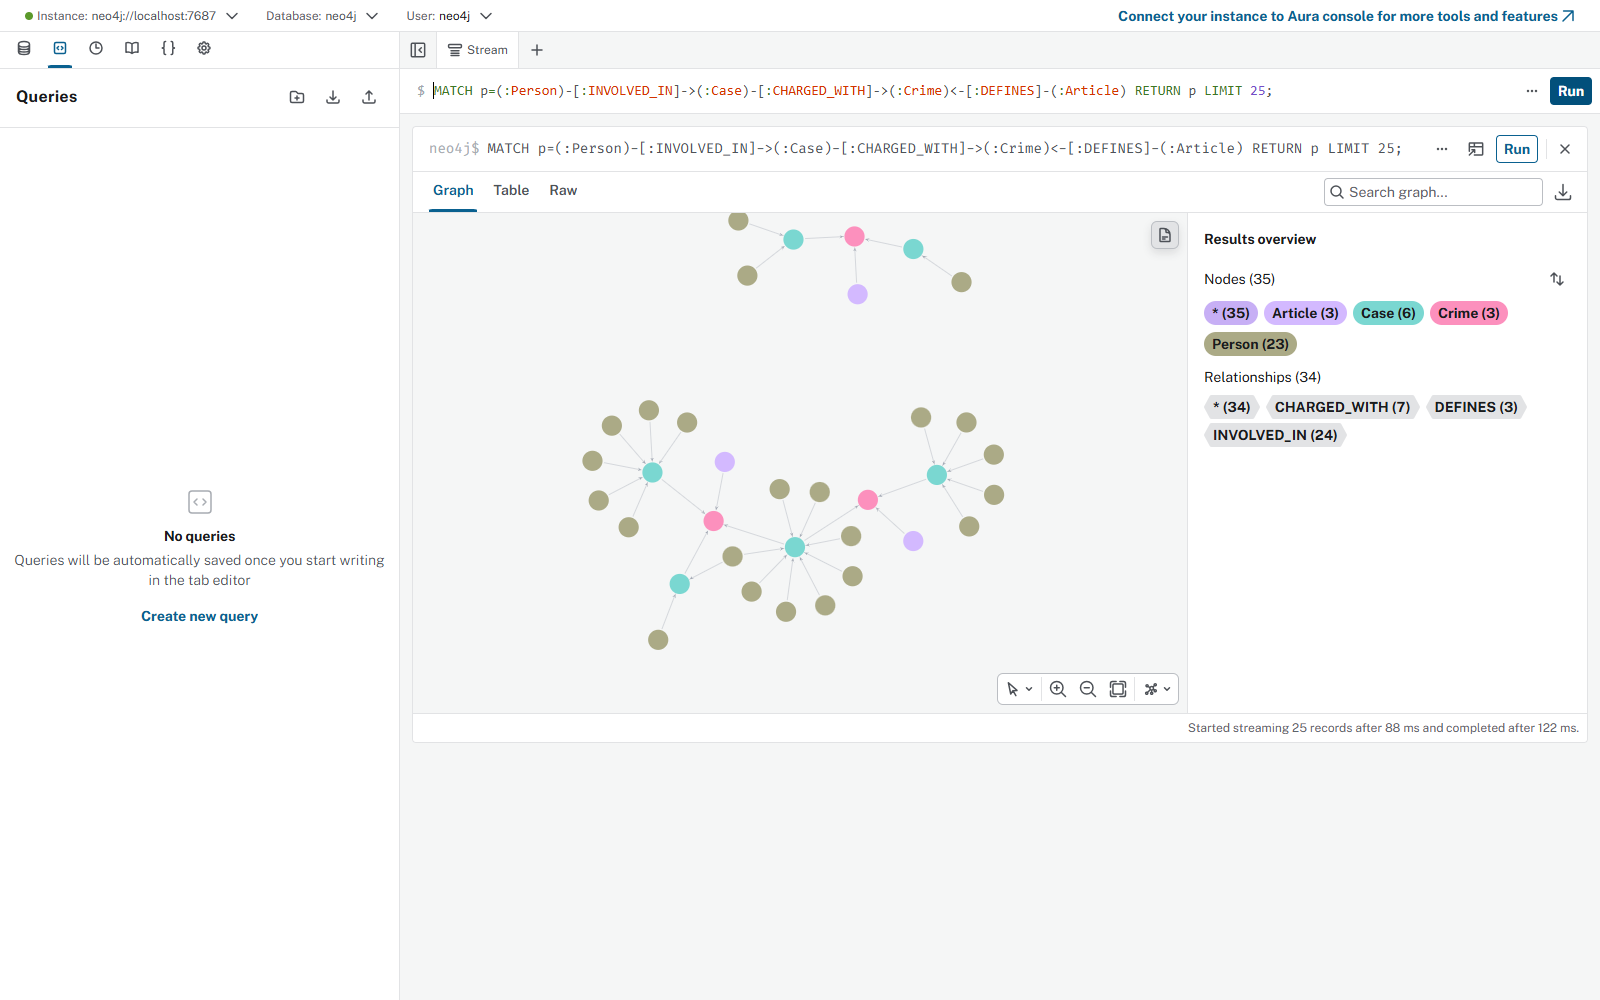
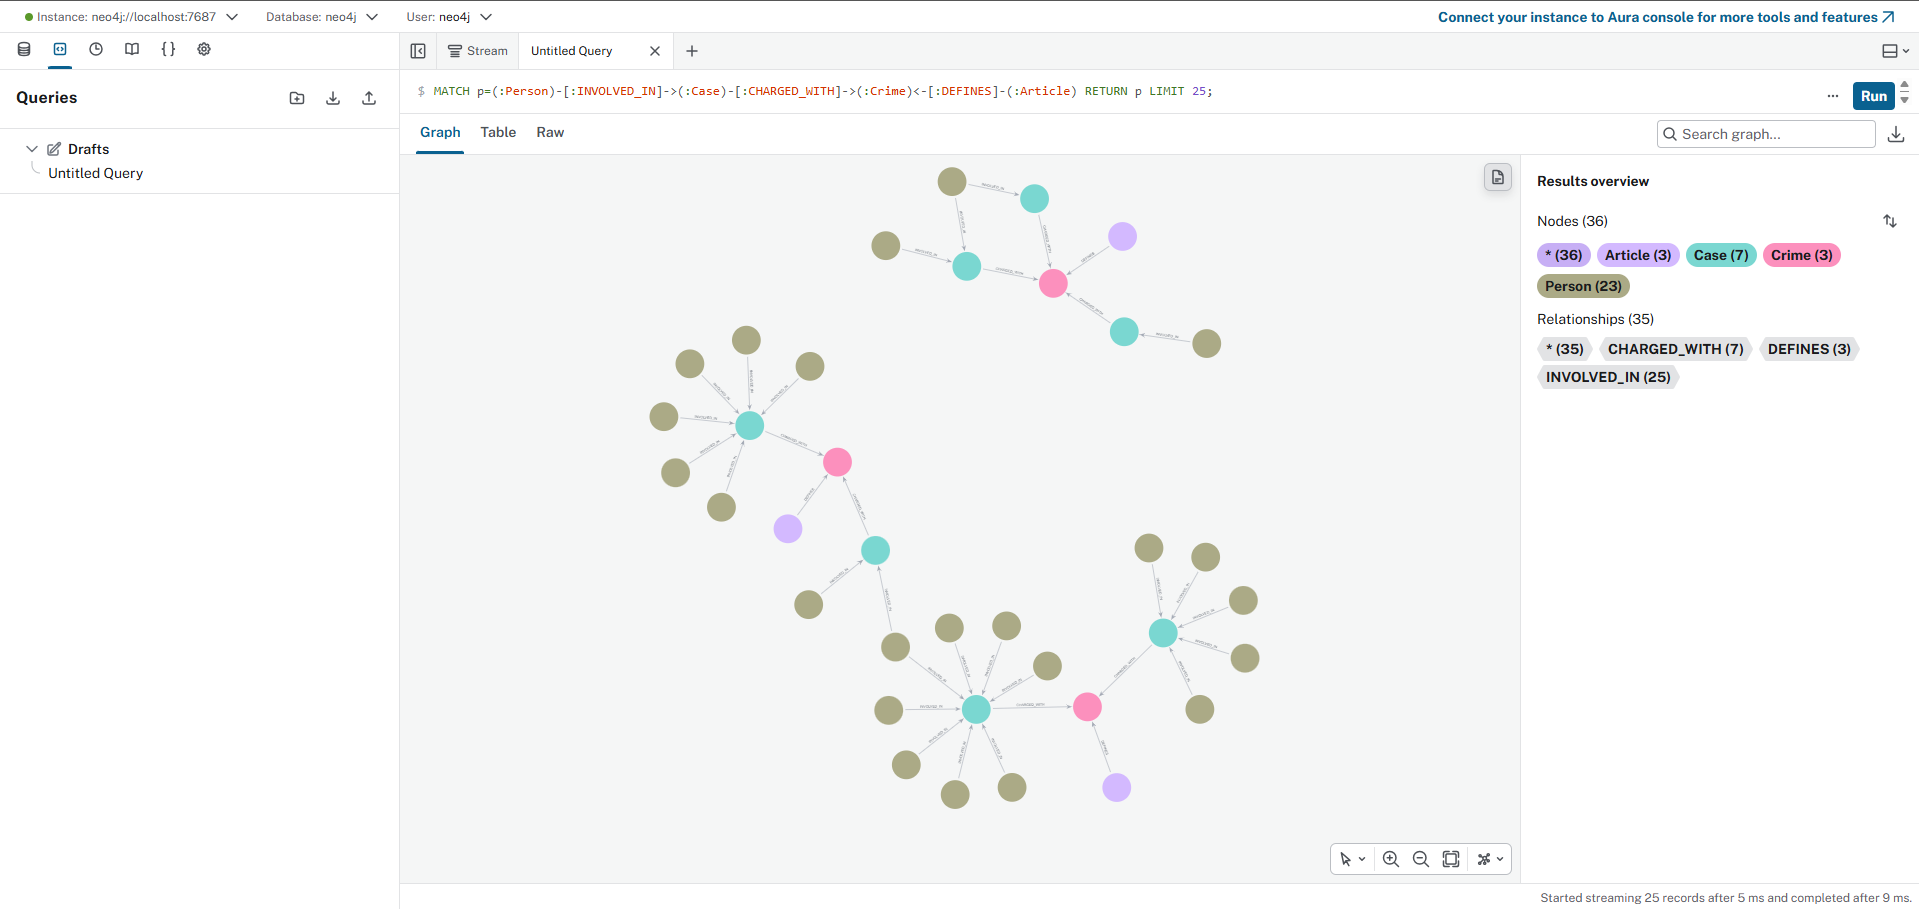
Refresh benchmark results and Neo4j evidence

diff --git a/report/REPORT_KG.md b/report/REPORT_KG.md
@@ -2,29 +2,29 @@
 
 **Họ tên:** Nguyễn Thành Duy  **MSSV:** 2A202602804  **Ngày:** 05/10/2026
 
-Số liệu dưới đây lấy từ `ket_qua_benchmark_kg.txt` sau khi chạy `python bench_kg.py --judge` trên mã cuối. Chat: `openai:gpt-4o-mini`; embedding: `openai:text-embedding-3-small`; `top_k=3`, `chunk_size=800`, 176 chunk; graph: 206 node và 384 cạnh. Judge dùng lời gọi LLM riêng, không tính vào chi phí mỗi pipeline.
+Số liệu dưới đây lấy từ `ket_qua_benchmark_kg.txt` sau khi chạy `python bench_kg.py --judge` trên mã cuối. Chat: `openai:gpt-4o-mini`; embedding: `openai:text-embedding-3-small`; `top_k=3`, `chunk_size=800`, 176 chunk; graph: 206 node và 385 cạnh. Judge dùng lời gọi LLM riêng, không tính vào chi phí mỗi pipeline.
 
 ## 1. Chi phí
 
 ```text
 == Indexing (one-off)
 pipeline  calls    in_tok  out_tok       USD  seconds
-flat        176     56072        0   0.00112     49.4
-graph       196     91958     4864   0.00942    116.3
+flat        176     56072        0   0.00112    136.9
+graph       196     91958     4909   0.00945    213.0
 
 == Querying (mean per question)
 pipeline  recall  judge   in_tok  out_tok       USD  seconds
-flat        0.43   1.00      694       47   0.00013     1.54
-graph       0.94   1.67     2704       88   0.00045     1.86
+flat        0.43   1.00      694       47   0.00013     2.50
+graph       0.94   1.83     2740       95   0.00046     3.24
 ```
 
 | Chỉ số | Flat | Graph | Graph / Flat |
 | --- | ---: | ---: | ---: |
-| Indexing USD | 0,00112 | 0,00942 | 8,41× |
-| Indexing giây | 49,4 | 116,3 | 2,35× |
-| Mỗi câu: USD | 0,00013 | 0,00045 | 3,46× |
-| Mỗi câu: giây | 1,54 | 1,86 | 1,21× |
-| Mỗi câu: in_tok | 694 | 2704 | 3,90× |
+| Indexing USD | 0,00112 | 0,00945 | 8,44× |
+| Indexing giây | 136,9 | 213,0 | 1,56× |
+| Mỗi câu: USD | 0,00013 | 0,00046 | 3,54× |
+| Mỗi câu: giây | 2,50 | 3,24 | 1,30× |
+| Mỗi câu: in_tok | 694 | 2740 | 3,95× |
 
 Graph tốn thêm 20 lần gọi LLM để trích xuất 20 bài tin khi dựng graph. Ở lúc hỏi, GraphRAG đưa dữ kiện graph và đoạn văn bản vào cùng prompt nên tăng input token và chi phí; cả hai pipeline dùng cùng 176 embedding chunk.
 
@@ -35,54 +35,46 @@ Graph tốn thêm 20 lần gọi LLM để trích xuất 20 bài tin khi dựng 
 | Q1 | single-hop-law | 1,00 / 2 | 1,00 / 2 | Hòa | Định nghĩa tiền chất nằm trong một đoạn luật, Flat đã đủ. |
 | Q2 | single-hop-news | 1,00 / 2 | 1,00 / 2 | Hòa | Hai tên bị cáo và án tử hình cùng nằm trong một bài báo. |
 | Q3 | cross-kb | 0,00 / 0 | 1,00 / 2 | Graph | Graph nối Lê Minh Thành qua vụ và tội danh tới Điều 251, khoản 1. |
-| Q4 | cross-kb | 0,00 / 0 | 0,67 / 1 | Graph một phần | Graph lấy được Điều 255 nhưng câu trả lời bỏ sót “tù chung thân” trong khoản 4. |
+| Q4 | cross-kb | 0,00 / 0 | 1,00 / 2 | Graph | Graph nối hành vi với Điều 255 và nêu đủ mức tối đa 20 năm hoặc tù chung thân. |
 | Q5 | cross-kb-multi-hop | 0,60 / 1 | 1,00 / 2 | Graph | Graph nối Cái Quang Huy và MDMA tới khoản 4 Điều 250, khung 20 năm/chung thân/tử hình. |
-| Q6 | aggregation | 0,00 / 1 | 1,00 / 1 | Graph theo recall | Graph nêu đủ ba tên/đơn vị trong đáp án chuẩn; judge vẫn chấm một phần vì câu trả lời có thêm vụ khác. |
+| Q6 | aggregation | 0,00 / 1 | 0,67 / 1 | Graph theo recall | Graph nêu Cái Quang Huy và Lê Minh Thành nhưng bỏ Viện Pháp y tâm thần, đồng thời thêm vụ 36kg. |
 
 Recall là tỷ lệ chuỗi trong `must_include` xuất hiện nguyên văn. Đây không phải thước đo đầy đủ cho tính đúng pháp lý hoặc mức độ đầy đủ của câu trả lời.
 
 ## 3. Phân tích lỗi
 
-### E1 — Cầu nối gãy ở một vụ được trích từ phần tin liên quan
+### E4 — Recall theo chuỗi không phản ánh hết câu trả lời
 
-- **Hiện tượng:** Có `Case` về Cái Quang Huy mang `doc_id` của bài Lê Minh Thành nhưng không có cạnh `CHARGED_WITH`, dù phần tin liên quan trong bài gốc có nêu hành vi vận chuyển.
-- **Bằng chứng:** Chạy truy vấn sau trên graph sau benchmark:
+- **Hiện tượng:** Q6 Flat có recall `0,00` nhưng judge chấm `1/2`, tức vẫn có phần nội dung liên quan.
+- **Bằng chứng:** Trong `ket_qua_benchmark_kg.txt`, Q6 Flat nêu “Vụ việc của Thành liên quan đến 5 viên nén màu trắng được xác định là ma túy MDMA” và “Vụ việc của Đông liên quan đến 0,686g ma túy MDMA”. Ba chuỗi `must_include` của Q6 trong `data/benchmark_kg.json` là `Cái Quang Huy`, `Lê Minh Thành`, `Pháp y tâm thần`; không chuỗi nào xuất hiện nguyên văn trong câu trả lời nên recall bằng 0, dù judge nhận ra nội dung đúng một phần.
+- **Nguyên nhân:** `keyword_recall` trong `bench_kg.py` chỉ tìm chuỗi con chính xác. Tên rút gọn như “Thành” hoặc mô tả vụ việc không được tính; ngược lại việc chỉ nhắc đúng tên cũng chưa chứng minh câu trả lời đúng.
+- **Đề xuất sửa:** Bổ sung tập alias được kiểm duyệt cho từng thực thể và chấm cả quan hệ người–vụ–chất, giữ judge hoặc kiểm thủ công cho trường hợp mâu thuẫn. Cách này tốn công tạo nhãn và có thể phát sinh nhận nhầm alias.
+
+### E5 — Câu tổng hợp lệch dữ kiện trong graph
+
+- **Hiện tượng:** Q6 GraphRAG kể thêm vụ mua bán hơn 36kg tại TP.HCM như một vụ có MDMA nhưng bỏ vụ Viện Pháp y tâm thần Trung ương. Judge chấm `1/2` dù recall theo từ khóa đạt `0,67`.
+- **Bằng chứng:** Q6 Graph trong file benchmark nói về vụ 36kg: “MDMA cũng được đề cập đến”. Truy vấn trực tiếp trên graph sau benchmark:
 
 ```cypher
-MATCH (k:Case)
-WHERE NOT (k)-[:CHARGED_WITH]->()
-RETURN k.name AS name, k.doc_id AS doc_id;
+MATCH (k:Case)-[:INVOLVES]->(:Substance {name:'MDMA'})
+RETURN k.name AS case_name, k.doc_id AS doc_id ORDER BY case_name;
 ```
 
 ```text
+Vụ góp tiền mua ma túy tại Hà Nội | news-100260918080821054
+Vụ tổ chức sử dụng ma túy tại Sầm Sơn | news-100260930085028036
 Vụ vận chuyển ma túy của Cái Quang Huy | news-100260918080821054
-Vụ tông cảnh sát giao thông ở An Giang | news-100260926112415229
+Vụ vận chuyển ma túy từ Đức về Việt Nam | news-100260917203001265
+Vụ án tại Viện Pháp y tâm thần Trung ương | news-100260924105118645
 ```
 
-Trong `data/drug_news/news-100260918080821054.md`, đoạn tin liên quan có câu “Cái Quang Huy bị cáo buộc hai lần vận chuyển ma túy về Việt Nam…”, nhưng vụ tương ứng không có tội danh đã liên kết. Vụ An Giang cần xem bài gốc trước khi kết luận có nên nối với luật ma túy hay không.
-- **Nguyên nhân:** Corpus chứa cả mẩu tin liên quan bên dưới bài chính; bước LLM trích được vụ phụ nhưng bỏ `charges`. `link_entity` chỉ nối tên tội đã được LLM trả về, không thể sửa một mảng rỗng.
-- **Đề xuất sửa:** Ở bước crawl, tách phần tin liên quan khỏi thân bài hoặc lưu thành tài liệu riêng. Trong `extract_news_cases`, đối chiếu các từ khóa tội danh ở từng đoạn tin với danh sách chuẩn khi `charges` rỗng và ghi cờ cần kiểm duyệt. Việc này tăng xử lý và có nguy cơ nối nhầm nếu chỉ dựa vào từ khóa.
-
-### E5 — Câu trả lời lệch dữ kiện graph về mức án tối đa
-
-- **Hiện tượng:** Q4 GraphRAG nói “phạt tù tối đa lên đến 20 năm”, bỏ mức **tù chung thân**. Judge chấm 1/2 dù graph đã có khoản 4 Điều 255.
-- **Bằng chứng:** Trong `ket_qua_benchmark_kg.txt`, Q4 Graph trả lời: “Hành vi này có thể bị phạt tù tối đa lên đến 20 năm theo Điều 255 BLHS … khoản 4.” Kiểm tra khoản trong graph:
-
-```cypher
-MATCH (:Article {id:'Điều 255 BLHS'})-[:HAS_CLAUSE]->(cl:Clause {number:4})
-RETURN cl.penalty AS penalty, split(cl.text, '\n')[0] AS first_line;
-```
-
-```text
-first_line: 4. Phạm tội thuộc một trong các trường hợp sau đây, thì bị phạt tù 20 năm hoặc tù chung thân:
-```
-
-- **Nguyên nhân:** Bước sinh câu trả lời rút gọn sai lựa chọn hình phạt từ dữ kiện graph, có thể do prompt chứa nhiều vụ và Điều luật liên quan cùng người “Hoàng Nato”. Đây là lỗi ở bước trả lời, không phải thiếu dữ liệu luật.
-- **Đề xuất sửa:** Trong `GRAPH_PROMPT`, yêu cầu liệt kê nguyên văn **mọi lựa chọn** trong khoản có khung cao nhất khi hỏi án tối đa. Có thể chọn vụ theo ngữ cảnh của câu hỏi trước khi đưa vào prompt để giảm nhiễu; đánh đổi là truy vấn xếp hạng vụ phức tạp hơn.
+Danh sách graph không có vụ hơn 36kg nhưng có vụ Viện Pháp y; graph còn tách vụ Cái Quang Huy thành hai `Case` do một bài chứa phần tin liên quan.
+- **Nguyên nhân:** Câu trả lời được LLM sinh từ cả chunk vector và dữ kiện graph; prompt chưa buộc kiểm chứng từng vụ theo cạnh `INVOLVES`. Phần tin liên quan trong corpus cũng tạo vụ trùng và làm ngữ cảnh nhiễu.
+- **Đề xuất sửa:** Với câu hỏi liệt kê theo chất, lấy danh sách `Case` trực tiếp bằng Cypher rồi yêu cầu LLM chỉ diễn đạt các hàng được trả về; gộp vụ trùng theo thực thể và nguồn trước khi trả lời. Đổi lại cần quy tắc nhận diện câu tổng hợp và gộp vụ đáng tin cậy.
 
 ## 4. Kết luận
 
-Flat RAG đủ cho câu hỏi một nguồn Q1–Q2: cả hai đạt recall 1,00 và judge 2. GraphRAG đáng chi phí khi cần nối tin với luật hoặc tổng hợp nhiều vụ: Q3 từ 0/0 lên 1,00/2, Q5 từ 0,60/1 lên 1,00/2; recall trung bình tăng từ 0,43 lên 0,94. Đổi lại indexing tốn 8,41 lần chi phí USD và mỗi câu tốn 3,46 lần. Graph vẫn cần kiểm chứng bước sinh câu trả lời như lỗi Q4.
+Flat RAG đủ cho câu hỏi một nguồn Q1–Q2: cả hai đạt recall 1,00 và judge 2. GraphRAG đáng chi phí khi cần nối tin với luật: Q3 từ 0/0 lên 1,00/2, Q4 từ 0/0 lên 1,00/2 và Q5 từ 0,60/1 lên 1,00/2; recall trung bình tăng từ 0,43 lên 0,94. Đổi lại indexing tốn 8,44 lần chi phí USD và mỗi câu tốn 3,54 lần. Câu tổng hợp Q6 cho thấy vẫn phải kiểm chứng danh sách vụ do LLM sinh.
 
 ## 5. Tự kiểm
 
@@ -102,10 +94,10 @@ $ python bench_kg.py --check
 [OK] Chi phí check: 1 lần gọi LLM, $0.00076.
 ```
 
-`--check` dựng graph nhỏ (luật + một bài); sau đó `--judge` đã dựng lại graph đầy đủ 206 node / 384 cạnh. Chạy `--judge` xong mới chụp ảnh.
+`--check` dựng graph nhỏ (luật + một bài); sau đó `--judge` đã dựng lại graph đầy đủ 206 node / 385 cạnh. Hai ảnh đường đi được chụp sau lần dựng graph đầy đủ này; ảnh đếm node vẫn khớp vì số node theo từng label không đổi.
 
 Ảnh Neo4j cần lưu: `report/img/kg_count.png`, `report/img/kg_cross_kb.png`, `report/img/kg_my_case.png`. Người chọn cho ảnh thứ ba: **Cái Quang Huy**. Chụp trực tiếp Neo4j Browser, thấy ô truy vấn và Results overview theo `LAB_GUIDE.md` Bước 8.2.
 
 ## Vấn đề gặp phải
 
-Q4 còn thiếu “tù chung thân” dù graph đã có dữ kiện; Q6 có thêm vụ Sầm Sơn ngoài đáp án chuẩn. Hai trường hợp được giữ nguyên trong file benchmark để báo cáo phản ánh đúng lần chạy thật.
+Q6 còn thêm vụ hơn 36kg không có cạnh MDMA trong graph và bỏ vụ Viện Pháp y tâm thần. Câu trả lời và điểm số được giữ nguyên trong file benchmark để báo cáo phản ánh đúng lần chạy thật.
